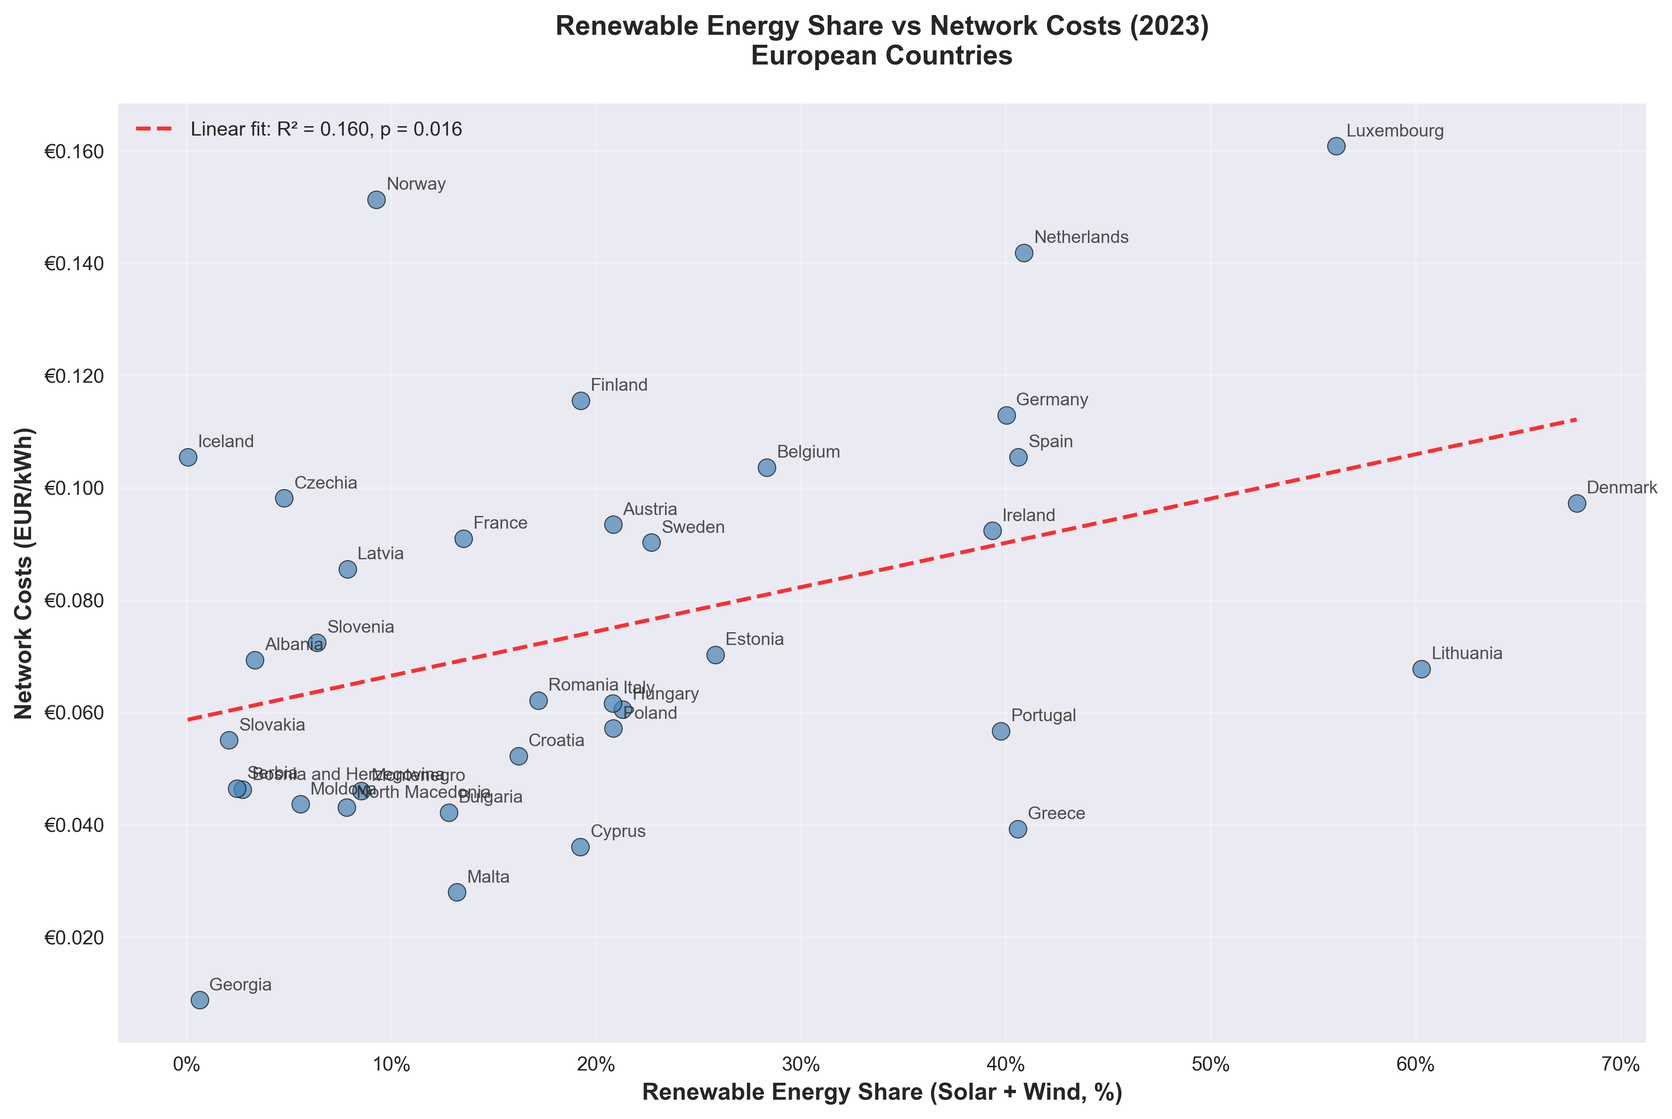
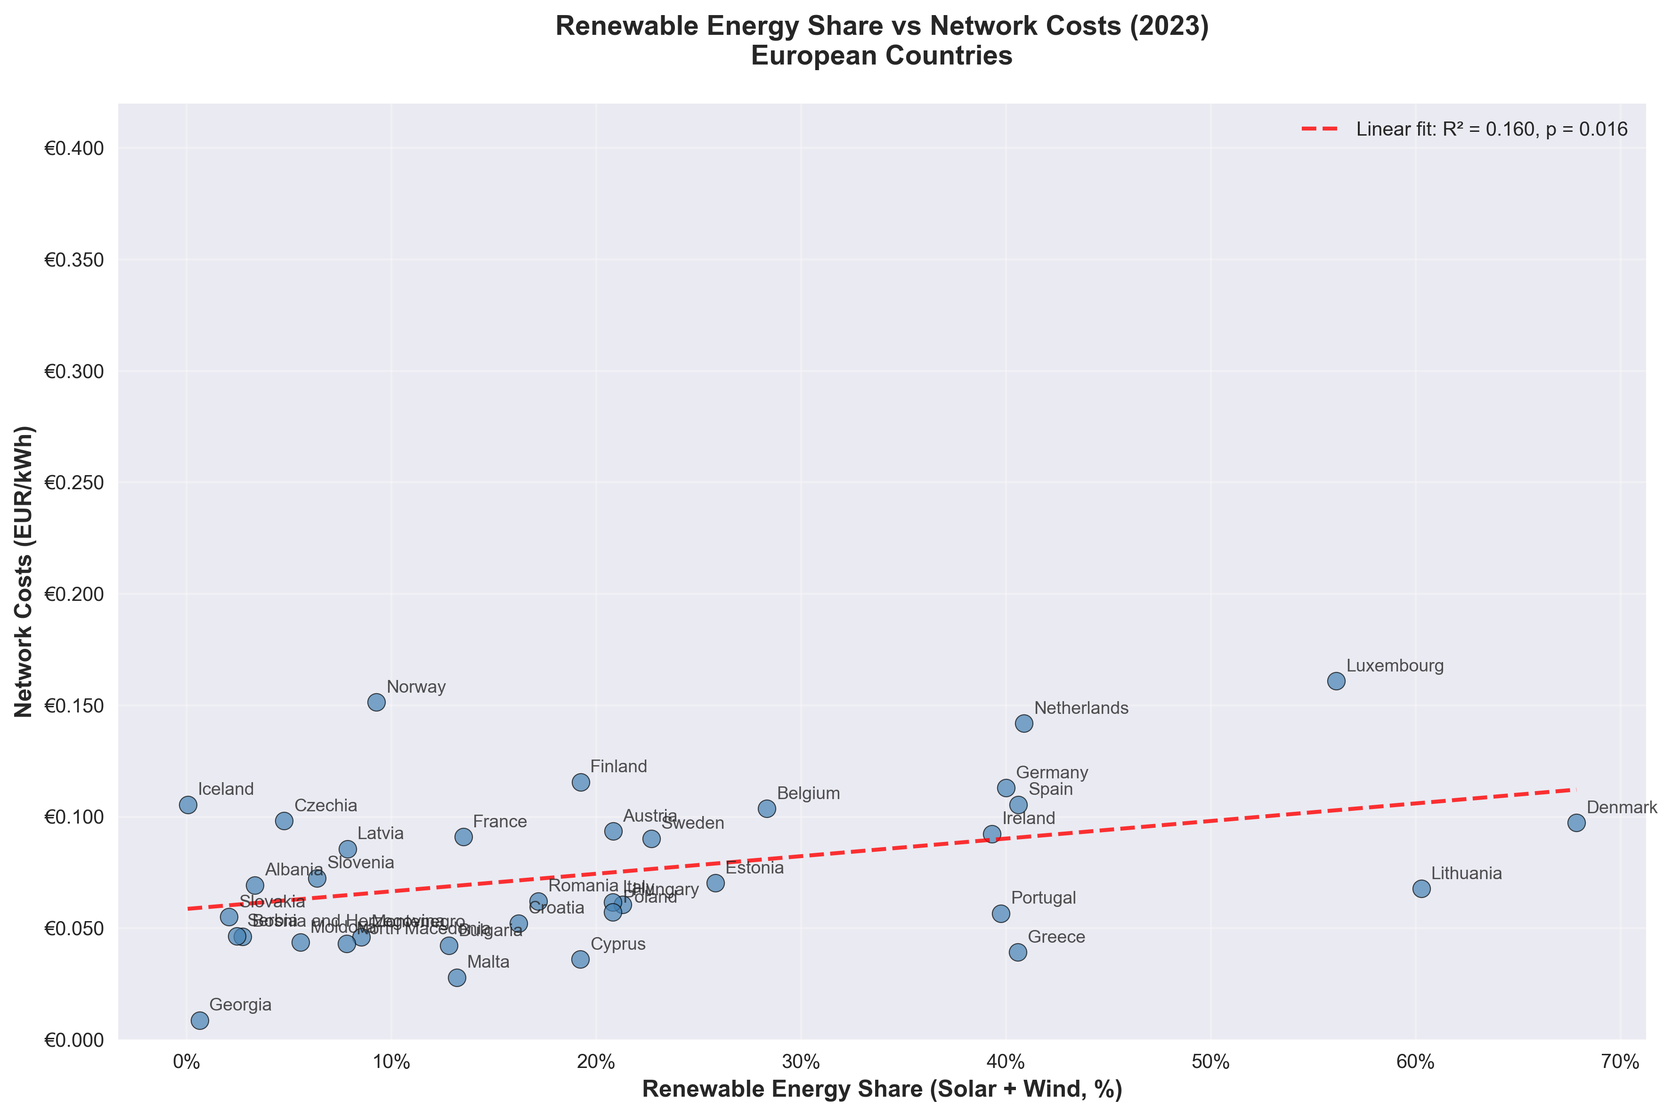
minor updates

diff --git a/electricity_price_components.py b/electricity_price_components.py
@@ -561,6 +561,9 @@ def create_renewable_vs_network_plot(df, renewable_df, year=2024, save_plot=True
         return f'{x:.0f}%'
     ax.xaxis.set_major_formatter(plt.FuncFormatter(percentage_formatter))
     
+    # Set y-axis limits
+    ax.set_ylim(0, 0.42)
+    
     # Adjust layout
     plt.tight_layout()
     

diff --git a/README.md b/README.md
@@ -1,187 +1,230 @@
-# Renewable Energy vs Wholesale Price Analysis
+# Renewable Energy vs Electricity Price Analysis
 
-This project analyzes the relationship between renewable energy share and wholesale electricity prices using European country-level data. The analysis includes multiple approaches: correlation studies, regression analysis with natural gas prices, and detailed electricity price component breakdowns.
+This project analyzes the relationship between renewable energy share and electricity prices using comprehensive datasets covering European countries and US Regional Transmission Organizations (RTOs). The analysis employs multiple methodologies including correlation studies, regression analysis, and detailed price component breakdowns to understand how renewable energy deployment affects electricity costs.
 
-## Files Overview
+## Project Overview
+
+The analysis addresses key questions about renewable energy economics:
+- **Does higher renewable energy penetration correlate with electricity prices?**
+- **What role do natural gas prices play as the primary driver of electricity costs?**
+- **How do different price components (generation, network, taxes) vary with renewable share?**
+- **What are the differences between wholesale and retail electricity markets?**
+
+## Analysis Scripts
 
 ### 1. `plotPrice.py`
-Analyzes European wholesale electricity prices vs renewable energy share for 2022 and 2023.
+**European Price vs Renewable Energy Analysis**
+
+Comprehensive analysis of European wholesale and retail electricity prices versus renewable energy share for multiple years, with focus on 2022-2023 data.
+
+**Key Features:**
+- **Wholesale Price Analysis**: Scatter plots of wholesale electricity prices (EUR/MWh) vs renewable share by country
+- **Retail Price Analysis**: Analysis of household retail electricity prices (EUR/kWh) vs renewable penetration  
+- **Price Component Breakdown**: Examines the difference between retail and wholesale prices (taxes, distribution, margins)
+- **Statistical Analysis**: Least-squares regression with correlation coefficients and trend lines
+- **Professional Visualization**: Country-labeled scatter plots with formatted axes and statistical annotations
 
 **Data Sources:**
-- `data/european_wholesale_electricity_price_data_monthly.csv` - Monthly wholesale electricity prices by European country (2015-present)
-  - Source: [Ember Energy European Wholesale Electricity Price Data](https://ember-energy.org/data/european-wholesale-electricity-price-data/)
-  - Direct download: https://storage.googleapis.com/emb-prod-bkt-publicdata/public-downloads/price/outputs/european_wholesale_electricity_price_data_monthly.csv
-  - Format: Country, ISO3 Code, Date, Price (EUR/MWh)
-- `data/share-of-electricity-production-from-solar-and-wind/` - Renewable energy share data
-  - Main file: `share-of-electricity-production-from-solar-and-wind.csv`
-  - Source: [Our World in Data - Share of electricity production from solar and wind](https://ourworldindata.org/grapher/share-of-electricity-production-from-solar-and-wind)
-  - Data compiled from Ember and Energy Institute sources
-  - Format: Entity, Code, Year, Solar and wind - % electricity
-  - Coverage: 1985-2024
+- European wholesale electricity prices (Ember Energy)
+- Renewable energy share data (Our World in Data/Ember)
+- Eurostat retail electricity price data
 
-**Features:**
-- Scatter plots with country labels for both 2022 and 2023
-- Least-squares regression line with correlation coefficient (R)
-- Formatted axes with percentage and currency symbols (EUR/MWh)
-- Consistent styling with seaborn theme
-- Professional annotation with country names
-- Statistical analysis using scipy for regression
-
-**Generated Plots:**
-- **Wholesale Price vs. Renewable Share**: Shows relationship between average wholesale electricity prices (EUR/MWh) and renewable energy percentage by country
-- **Retail Price vs. Renewable Share**: Analyzes retail electricity prices (EUR/kWh) from Eurostat data against renewable energy share
-- **Taxes + Distribution vs. Renewable Share**: Displays the difference between retail and wholesale prices (representing taxes, distribution costs, and margins) versus renewable energy penetration
+**Generated Outputs:**
+- Multiple scatter plot visualizations showing price-renewable relationships
+- Statistical correlations and regression analysis results
 
 **Usage:**
 ```bash
 python plotPrice.py
 ```
 
-### 2. `renewable_price_analysis.py`
-Comprehensive analysis of US RTO data comparing renewable energy percentage (wind + solar) vs load-weighted average wholesale electricity prices for 2023 and 2024.
+### 2. `electricity_price_components.py`
+**European Electricity Price Component Analysis**
 
-**Data Sources:**
-- Multiple CSV files for different RTOs: MISO, ERCOT, CAISO, PJM, SPP, ISONE, NYISO
-- Hourly demand and price data with fuel mix information
-- Files located at: `/Users/adessler/Library/Mobile Documents/iCloud~md~obsidian/Documents/BulletVault/plotting code/renewablesSaveMoney/rto_data/`
-- Data format: timestamp, load, price, fuel_mix columns for each energy source
+Creates detailed analysis of electricity price components (generation, network costs, taxes/levies) across European countries using comprehensive Eurostat data.
 
-**Features:**
-- Load-weighted average price calculations for accurate representation
-- Renewable percentage calculation (wind + solar as % of total load)
-- Single panel plot for 2024 data with trend line
-- Summary statistics and correlation analysis
-- Professional styling with seaborn theme
-- Comprehensive data validation and error handling
-- RTO-specific fuel mix handling (some RTOs have different available renewable sources)
+**Key Features:**
+- **Stacked Bar Charts**: Visual breakdown of electricity price components by country
+- **Diverging Bar Analysis**: Shows subsidies (negative taxes) and positive cost components
+- **Component Analysis**: Generation & supply, network costs, taxes & levies breakdown
+- **Renewable Correlation**: Additional analysis of renewable share vs network costs
+- **Comprehensive Data Processing**: Handles multiple Eurostat data sheets and consumption bands
+- **Statistical Summary**: Country rankings, component averages, and cost distributions
 
-**Usage:**
-```bash
-python renewable_price_analysis.py
-```
-
-### 3. `electricity_price_components.py`
-Creates detailed stacked bar charts showing electricity price components (generation, network costs, and taxes) for European countries using Eurostat data.
-
-**Data Sources:**
-- `data/nrg_pc_204_c__custom_17509578_spreadsheet.xlsx` - Eurostat electricity price components data
-  - Source: [Eurostat Energy Database (nrg_pc_204_c)](https://ec.europa.eu/eurostat/databrowser/view/nrg_pc_204_c__custom_17509578/default/table?lang=en)
-  - Description: Detailed breakdown of electricity prices for household consumers
-  - Components: Energy supply, network costs, taxes, fees, levies, VAT, renewable energy taxes, capacity charges, environmental taxes
-  - Coverage: 45 European countries/regions including EU27, Euro area, and individual member states
-  - Time Period: 2017-2024
-  - Consumption Bands: <1,000 kWh and 1,000-2,499 kWh annual consumption
-
-**Features:**
-- Configurable analysis by year and consumption band
-- Automatic data loading and processing from multiple Excel sheets
-- Stacked bar chart visualization showing price component breakdown
-- Summary statistics and data tables
-- Professional styling with clear component categories
-- Error handling and data validation
-
-**Usage:**
-```bash
-python electricity_price_components.py
-```
-
-### 4. `price_vs_renewable_regression.py`
-Performs comprehensive regression analysis of European electricity prices against natural gas prices to understand the primary cost driver in electricity markets.
-
-**Data Sources:**
-- `data/european_wholesale_electricity_price_data_monthly.csv` - Monthly wholesale electricity prices (Ember Energy)
-- `data/CMO-Historical-Data-Monthly.xlsx` - Natural gas prices (World Bank Commodity Markets)
-
-**Analysis Model:**
-- **Gas regression model**: `Price = a * Gas_Cost + c`
-
-**Features:**
-- Country-by-country linear regression analysis with detailed statistics
-- Annual average price and gas cost calculations
-- Multi-page PDF report generation with scatter plots and regression lines
-- Summary statistics including average coefficients and R² values
-- Year-by-year data point labeling on plots
-- Comprehensive statistical output with model interpretation
-- Visual distinction of data points when excluding specific years from regression
-
-**Configuration Options:**
-- `INCLUDE_2022`: Option to exclude 2022 data from regression analysis while still displaying it on plots (useful for analyzing energy crisis impact)
+**Data Processing:**
+- Configurable analysis by year (default: 2023) and consumption band
+- Automatic data loading from multiple Excel sheets
+- Country name standardization and data validation
+- Calculation of implied tax/subsidy amounts from total vs component costs
 
 **Generated Outputs:**
-- `electricity_vs_gas_renewable_with_fit.pdf` - Multi-page comprehensive analysis report with individual country regression plots
-- Console output with detailed regression statistics for each country
-- Summary plot showing gas price coefficients vs model fit quality
+- `electricity_price_components_2023_DB.png` - Stacked bar chart of price components
+- `renewable_vs_network_costs_2023.png` - Renewable share vs network costs scatter plot
+- Comprehensive console output with statistics and data tables
+
+**Usage:**
+```bash
+python electricity_price_components.py  
+```
+
+### 3. `price_vs_renewable_regression.py`
+**Natural Gas Price Regression Analysis**
+
+Comprehensive regression analysis demonstrating natural gas prices as the primary driver of European electricity wholesale prices, with configurable analysis options.
+
+**Regression Model:**
+```
+Electricity_Price = a × Gas_Price + c
+```
+
+**Key Features:**
+- **Country-by-Country Analysis**: Individual linear regression for each European country
+- **Multi-Page PDF Output**: Comprehensive visual report with individual country plots
+- **Statistical Rigor**: R² values, correlation coefficients, and regression statistics
+- **Configurable Analysis**: Option to include/exclude specific years (e.g., 2022 energy crisis)
+- **Data Point Labeling**: Year-by-year visualization on scatter plots
+- **Summary Statistics**: Average coefficients across countries and model performance
+
+**Analysis Options:**
+- `INCLUDE_2022`: Toggle to exclude 2022 data from regression fitting while retaining for visualization
+- Handles missing data and validates sufficient data points for regression
+
+**Generated Outputs:**
+- `electricity_vs_gas_renewable_with_fit.pdf` - Multi-page analysis report
+- Console output with detailed regression statistics
+- Summary plots showing coefficient distributions
 
 **Usage:**
 ```bash
 python price_vs_renewable_regression.py
 ```
 
-## Data Sources and Credits
+### 4. `renewable_scatter_US.py`
+**US Regional Transmission Organization (RTO) Analysis**
 
-### European Data
-- **Price Data**: Ember Energy European Wholesale Electricity Price Data
-- **Renewable Data**: Our World in Data compilation from Ember and Energy Institute sources
-- **Hydroelectric Data**: Our World in Data compilation from Ember and Energy Institute sources
-  - Source: [Our World in Data - Share of electricity production from hydropower](https://ourworldindata.org/grapher/share-electricity-hydro)
-  - File: `data/share-electricity-hydro/share-electricity-hydro.csv`
-  - Coverage: Global hydroelectric generation share data (1985-2024)
-- **Natural Gas Price Data**: World Bank Commodity Markets data
-  - Source: https://thedocs.worldbank.org/en/doc/5d903e848db1d1b83e0ec8f744e55570-0350012021/related/CMO-Historical-Data-Monthly.xlsx
-  - File: `data/CMO-Historical-Data-Monthly.xlsx`
-- **Electricity Retail Prices**: Eurostat Energy Database (ten00117)
-  - Source: https://ec.europa.eu/eurostat/databrowser/view/ten00117/default/table?lang=en
-  - File: `data/ten00117_page_spreadsheet.xlsx`
-  - Description: Comprehensive European energy statistics including production, consumption, and transformation data
-  - Data Type: Annual energy balances and quantities covering electricity, fossil fuels, and renewable energy sources
-  - Coverage: EU Member States, EFTA countries, and candidate countries
-  - Collection: Part of Eurostat's harmonized energy statistics under Regulation (EC) No 1099/2008
-- **Electricity Price Components**: Eurostat Energy Database (nrg_pc_204_c)
-  - Source: https://ec.europa.eu/eurostat/databrowser/view/nrg_pc_204_c__custom_17509578/default/table?lang=en
-  - File: `data/nrg_pc_204_c__custom_17509578_spreadsheet.xlsx`
-  - Description: Detailed breakdown of electricity prices for household consumers with components including energy supply, network costs, taxes, and renewable energy levies
-  - Data Type: Annual electricity price components (EUR/kWh) for different consumption bands
-  - Coverage: 45 European countries/regions including EU27, Euro area, and individual member states
-  - Time Period: 2017-2024
-  - Special Features: Includes specific renewable energy taxes and allowances, enabling analysis of renewable energy policy impacts on electricity prices
-  - Consumption Bands: Two categories - less than 1,000 kWh and 1,000-2,499 kWh annual consumption
-  - Components: 15 different price components including renewable taxes, capacity taxes, environmental taxes, and various allowances
-- **Time Period**: 2015-present (analysis focuses on 2022-2023)
-- **Coverage**: European countries with ISO3 country codes
-- **Update Frequency**: Monthly price data, annual renewable percentage data
+Analysis of renewable energy penetration vs load-weighted wholesale electricity prices across major US electricity markets using high-resolution hourly data.
 
-### US RTO Data
-- **Source**: Regional Transmission Organization hourly data
-- **Time Period**: 2023-2024 (hourly data)
-- **Coverage**: MISO, ERCOT, CAISO, PJM, SPP, ISONE, NYISO
-- **Metrics**: Load-weighted average prices, renewable generation percentages
+**Key Features:**
+- **Load-Weighted Analysis**: Accurate price calculations weighted by actual electricity demand
+- **Multi-RTO Coverage**: MISO, ERCOT, CAISO, PJM, SPP, ISONE, NYISO
+- **Renewable Calculation**: Wind + solar as percentage of total load
+- **Hourly Data Processing**: High-resolution temporal analysis (8,760+ hours per year)
+- **Comparative Visualization**: 2023 vs 2024 analysis with trend lines
+- **Statistical Analysis**: Correlation analysis and trend identification
+
+**RTO Coverage:**
+- **MISO**: Midcontinent Independent System Operator
+- **ERCOT**: Electric Reliability Council of Texas  
+- **CAISO**: California Independent System Operator
+- **PJM**: PJM Interconnection (Mid-Atlantic/Great Lakes)
+- **SPP**: Southwest Power Pool
+- **ISONE**: ISO New England
+- **NYISO**: New York Independent System Operator
+
+**Data Processing:**
+- Hourly demand, price, and fuel mix data processing
+- Load-weighted average price calculations for market accuracy
+- Renewable percentage calculations handling different RTO data structures
+- Data validation and error handling for missing/invalid data
+
+**Generated Outputs:**
+- Single-panel 2024 renewable vs price scatter plot with trend analysis
+- Summary statistics and correlation analysis
+- Comprehensive console output with RTO-by-RTO results
+
+**Usage:**
+```bash
+python renewable_scatter_US.py
+```
+
+## Data Sources and Structure
+
+### European Data Sources
+
+#### Wholesale Electricity Prices
+- **Source**: [Ember Energy European Wholesale Electricity Price Data](https://ember-energy.org/data/european-wholesale-electricity-price-data/)
+- **File**: `data/european_wholesale_electricity_price_data_monthly.csv`
+- **Coverage**: European countries, 2015-present, monthly data
+- **Format**: Country, ISO3 Code, Date, Price (EUR/MWh)
+- **Direct Download**: https://storage.googleapis.com/emb-prod-bkt-publicdata/public-downloads/price/outputs/european_wholesale_electricity_price_data_monthly.csv
+
+#### Renewable Energy Share Data
+- **Source**: [Our World in Data - Share of electricity production from solar and wind](https://ourworldindata.org/grapher/share-of-electricity-production-from-solar-and-wind)
+- **File**: `data/share-of-electricity-production-from-solar-and-wind/share-of-electricity-production-from-solar-and-wind.csv`
+- **Compilation**: Ember and Energy Institute data processed by Our World in Data
+- **Coverage**: Global data, 1985-2024, annual values
+- **Format**: Entity, Code, Year, Solar and wind - % electricity
+- **Citation**: Ember (2025); Energy Institute - Statistical Review of World Energy (2024) – with major processing by Our World in Data
+
+#### Hydroelectric Generation Data  
+- **Source**: [Our World in Data - Share of electricity production from hydropower](https://ourworldindata.org/grapher/share-electricity-hydro)
+- **File**: `data/share-electricity-hydro/share-electricity-hydro.csv`
+- **Coverage**: Global hydroelectric generation share, 1985-2024
+- **Format**: Entity, Code, Year, Hydro - % electricity
+- **Citation**: Ember (2025); Energy Institute - Statistical Review of World Energy (2025) – with major processing by Our World in Data
+
+#### Natural Gas Price Data
+- **Source**: [World Bank Commodity Markets](https://thedocs.worldbank.org/en/doc/5d903e848db1d1b83e0ec8f744e55570-0350012021/related/CMO-Historical-Data-Monthly.xlsx)
+- **File**: `data/CMO-Historical-Data-Monthly.xlsx`
+- **Coverage**: Monthly European natural gas prices, historical data
+- **Format**: Date, Natural gas Europe ($/MMBtu)
+- **Usage**: Primary driver analysis in regression modeling
+
+#### Retail Electricity Prices
+- **Source**: [Eurostat Energy Database (ten00117)](https://ec.europa.eu/eurostat/databrowser/view/ten00117/default/table?lang=en)
+- **File**: `data/ten00117_page_spreadsheet.xlsx`
+- **Description**: Comprehensive European energy statistics
+- **Coverage**: EU Member States, EFTA countries, candidate countries
+- **Data Types**: Annual energy balances, electricity production, consumption data
+- **Regulation**: Harmonized under Regulation (EC) No 1099/2008
+
+#### Electricity Price Components
+- **Source**: [Eurostat Energy Database (nrg_pc_204_c)](https://ec.europa.eu/eurostat/databrowser/view/nrg_pc_204_c__custom_17509578/default/table?lang=en)
+- **File**: `data/nrg_pc_204_c__custom_17509578_spreadsheet.xlsx`
+- **Description**: Detailed breakdown of household electricity price components
+- **Coverage**: 45 European countries/regions including EU27, Euro area
+- **Time Period**: 2017-2024
+- **Components**: 15+ price components including:
+  - Energy supply costs
+  - Network transmission and distribution costs
+  - Various taxes, fees, and levies
+  - VAT and environmental taxes
+  - Renewable energy taxes and allowances
+  - Capacity charges and balancing costs
+- **Consumption Bands**: Two categories analyzed
+  - DA: Less than 1,000 kWh annual consumption
+  - DB: 1,000-2,499 kWh annual consumption
+
+### US RTO Data Sources
+- **Source**: Regional Transmission Organization hourly operational data
+- **Location**: External cloud storage (iCloud Documents)  
+- **Time Period**: 2023-2024 hourly resolution
+- **Coverage**: Seven major RTOs covering ~2/3 of US electricity demand
 - **Data Resolution**: Hourly timestamps with fuel mix breakdowns
+- **Metrics**: Load, prices, generation by fuel type (wind, solar, gas, coal, nuclear, etc.)
 
 ## Generated Analysis Products
 
-- **electricity_vs_gas_renewable_with_fit.pdf**: Comprehensive analysis document showing the relationship between electricity prices, natural gas costs, and renewable energy penetration
+### Visualization Outputs
+- **electricity_price_components_2023_DB.png**: Stacked bar chart showing European electricity price component breakdown by country
+- **renewable_vs_network_costs_2023.png**: Scatter plot analysis of renewable share vs network infrastructure costs
+- **electricity_vs_gas_renewable_with_fit.pdf**: Comprehensive multi-page regression analysis report
 
-## Technical Dependencies
+### Analysis Reports
+- **Multi-country regression analysis**: Individual country gas price impact assessments
+- **RTO comparison tables**: US regional electricity market analysis summaries
+- **Statistical correlation studies**: European and US market renewable energy impact quantification
 
-All scripts require:
-- pandas
-- numpy
-- matplotlib
-- seaborn
-- scipy
-- pathlib (for file handling)
-- warnings (for clean output)
+## License and Attribution
 
-Additional dependencies for specific scripts:
-- **price_vs_renewable_regression.py**: scikit-learn (LinearRegression, r2_score)
+This project is released under the [LICENSE](LICENSE) terms. When using this analysis or its outputs:
 
-## Analysis Methodology
+1. **Data Attribution**: Cite original data sources (Ember, Eurostat, Our World in Data, etc.)
+2. **Methodology Reference**: Reference the analytical approaches used
+3. **Source Code**: Acknowledge the analysis framework if used for derivative work
 
-The project employs multiple analytical approaches:
-
-1. **Correlation Analysis**: Direct correlation between renewable energy penetration and wholesale electricity prices
-2. **Regression Modeling**: Linear regression analysis focusing on natural gas prices as the primary driver of electricity costs
-3. **Price Component Analysis**: Breakdown of electricity prices into constituent components (generation, network, taxes)
-4. **Comparative Analysis**: Cross-country and cross-regional comparisons
-
-The European analysis uses country-level aggregated data, while the US RTO analysis uses high-resolution hourly data with load-weighted price calculations for more accurate market representation. The regression analysis quantifies the relationship between natural gas prices and electricity costs, demonstrating how gas price fluctuations are a major driver of electricity prices in European markets due to the significant role of gas-fired power generation in setting marginal costs.
+### Data Source Citations
+- Ember Energy datasets: Follow Ember's attribution requirements
+- Our World in Data: Follow OWID's Creative Commons licensing
+- Eurostat: Reference official Eurostat databases and regulation compliance
+- World Bank: Follow World Bank Open Data terms of use
